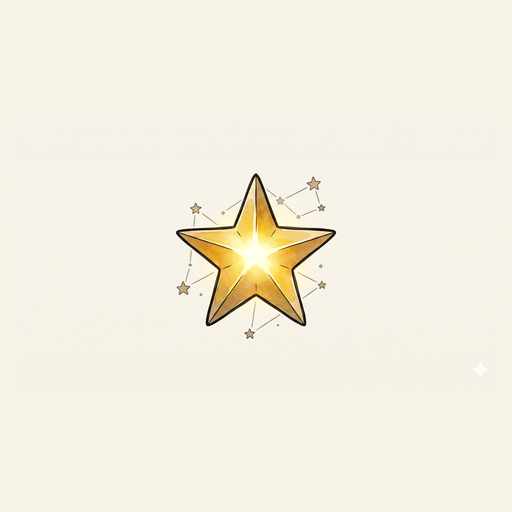
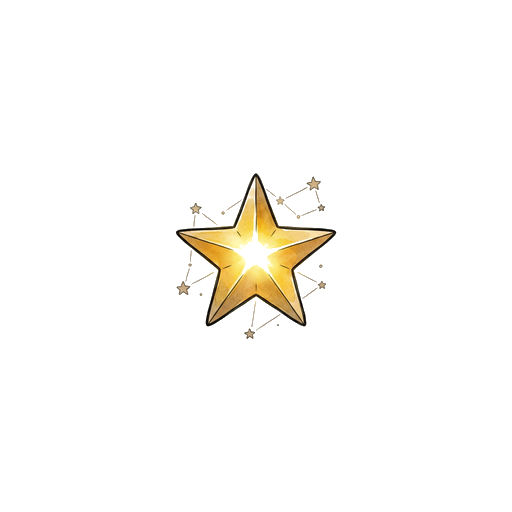
Remove cream backgrounds from badge PNGs for dark mode
Process all 27 badge images to make the cream background
transparent with feathered edges. Now badges work like
character SVGs — transparent art on any background color.

diff --git a/style.css b/style.css
@@ -959,7 +959,7 @@ body.dark .badge-tile-info { border-top-color: rgba(221,215,200,.1); }
   box-shadow: 0 1px 4px rgba(8,8,16,.06);
 }
 body.dark .badge-tile { background: #14141f; }
-body.dark .badge-tile-art { background: #1e1e2a; }
+body.dark .badge-tile-art { background: rgba(255,255,255,.015); }
 body.dark .badge-tile.unearned {
   border-color: rgba(221,215,200,.18);
 }
@@ -1072,7 +1072,7 @@ body.dark .badge-progress-fill { background: var(--paper); }
   color: var(--ink); opacity: .4;
   font-style: italic;
 }
-body.dark .badge-modal-front { border-bottom-color: rgba(221,215,200,.08); background: #1e1e2a; }
+body.dark .badge-modal-front { border-bottom-color: rgba(221,215,200,.08); background: #14141f; }
 body.dark .badge-modal-inner { background: #14141f; }
 body.dark .badge-modal-back { background: #14141f; }
 
